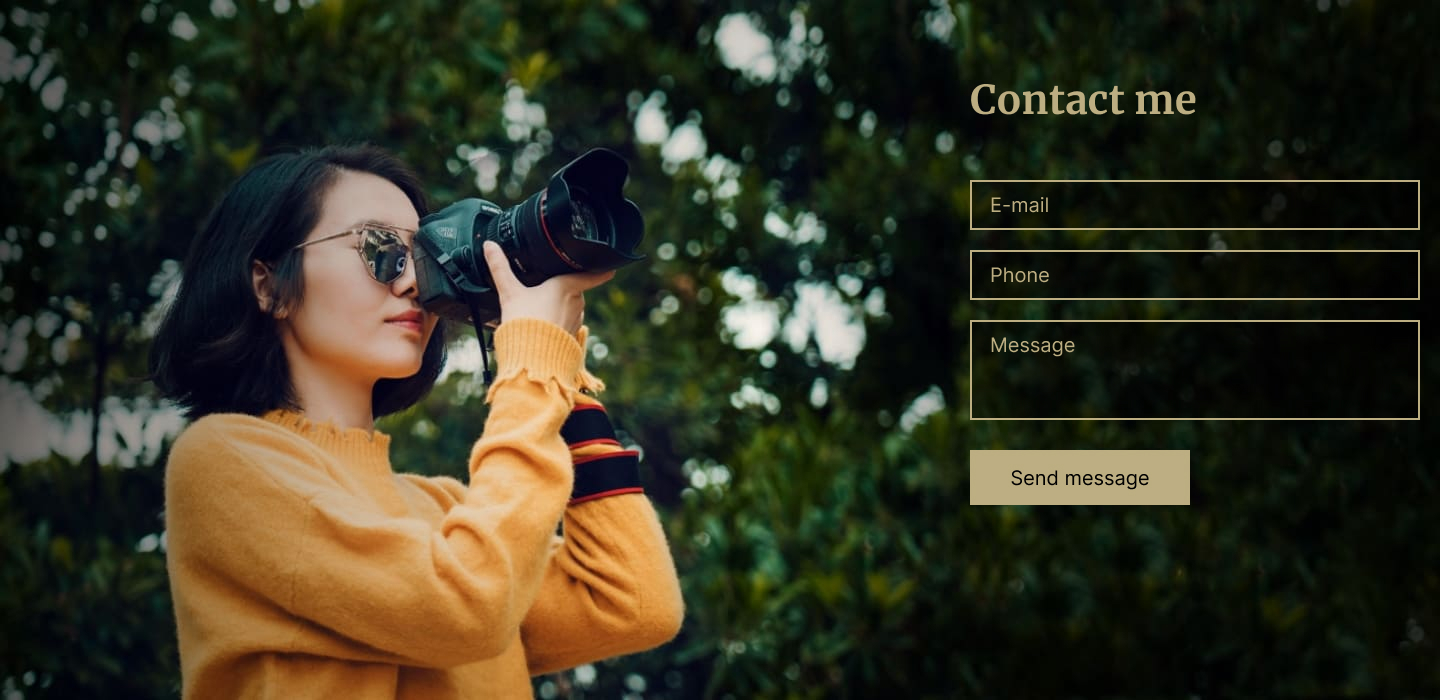
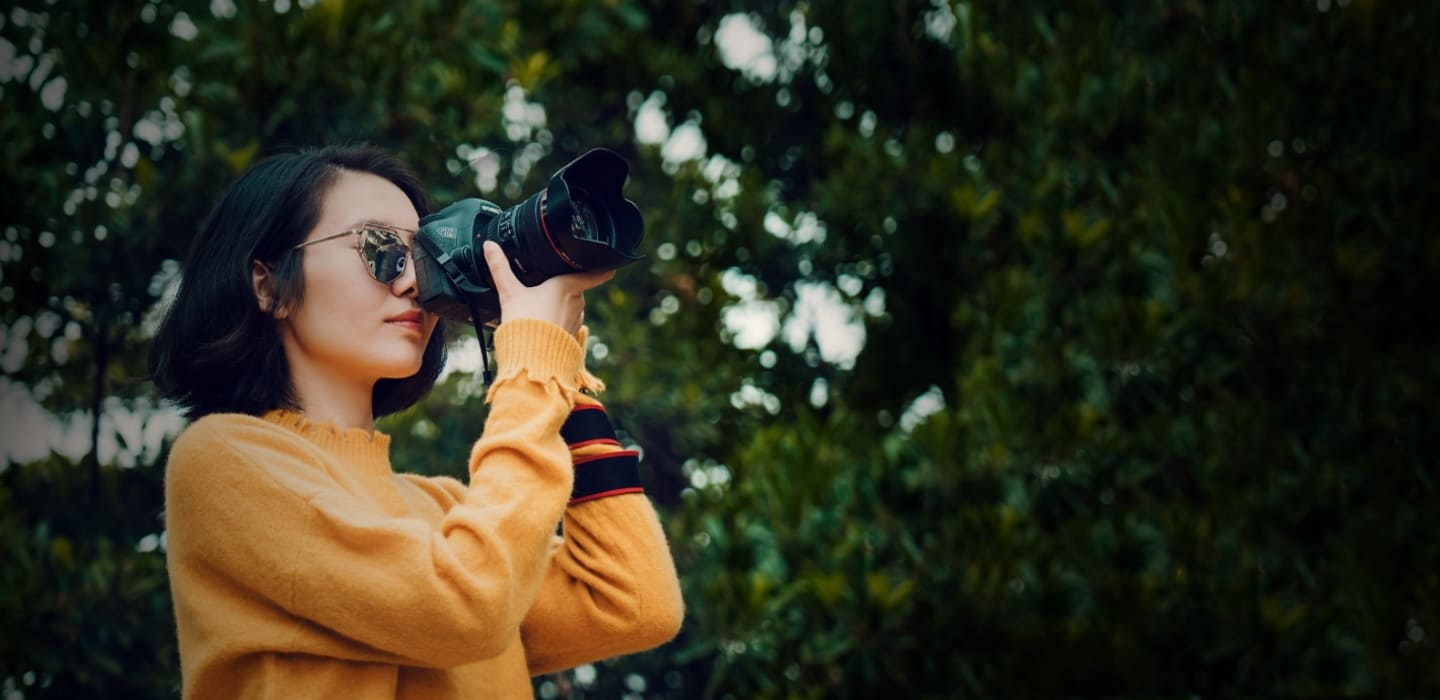
feat: draft contact-me

diff --git a/portfolio/style.css b/portfolio/style.css
@@ -15,6 +15,9 @@
   padding: 0;
   box-sizing: border-box;
 }
+:root {
+  --color-gold: #bdae82;
+}
 body {
   background-color: #000000;
   color: #ffffff;
@@ -68,7 +71,7 @@ ul.nav-list {
   transition: 0.4s;
 }
 .nav-link:hover {
-  color: #bdae82;
+  color: var(--color-gold);
 }
 .language {
   width: 70px;
@@ -92,7 +95,7 @@ ul.nav-list {
   position: absolute;
   left: -2px;
   top: -19px;
-  color: #bdae82;
+  color: var(--color-gold);
 }
 .languages-checkbox:checked::after {
   color: #ffffff;
@@ -105,7 +108,7 @@ ul.nav-list {
   color: #ffffff;
 }
 .languages-checkbox:checked::before {
-  color: #bdae82;
+  color: var(--color-gold);
 }
 .languages-text {
   position: absolute;
@@ -113,14 +116,14 @@ ul.nav-list {
   font-size: 20px;
 }
 
-.hero-container {
+.hero {
   height: 820px;
   background-image: url("./assets/img/header/header-bg.jpg");
   background-position: center -90px;
   background-repeat: no-repeat;
   padding: 0 80px;
 }
-.hero {
+.hero-container {
   display: flex;
   flex-wrap: wrap;
   width: 500px;
@@ -153,7 +156,7 @@ ul.nav-list {
   font-weight: 400;
   line-height: 40px;
   border: 0;
-  background-color: #bdae82;
+  background-color: var(--color-gold);
   color: #000000;
   cursor: pointer;
   transition: 0.8s;
@@ -165,9 +168,9 @@ ul.nav-list {
   font-size: 20px;
   font-weight: 400;
   line-height: 40px;
-  border: 2px solid #bdae82;
+  border: 2px solid var(--color-gold);
   background-color: #000000;
-  color: #bdae82;
+  color: var(--color-gold);
   cursor: pointer;
   transition: 0.8s;
 }
@@ -188,12 +191,12 @@ ul.nav-list {
   display: flex;
   width: 48.612%;
   overflow-x: hidden;
-  padding-top: 100px;
+  /* padding-top: 100px; */
   font-family: Merriweather-Bold;
   font-weight: 700;
   font-size: 40px;
   line-height: 80px;
-  color: #bdae82;
+  color: var(--color-gold);
   align-items: center;
 }
 .section-header-title::before {
@@ -201,7 +204,7 @@ ul.nav-list {
   position: relative;
   width: 100%;
   height: 2px;
-  background-color: #bdae82;
+  background-color: var(--color-gold);
   top: 50%;
   left: -20px;
 }
@@ -210,7 +213,7 @@ ul.nav-list {
   position: relative;
   width: 100%;
   height: 2px;
-  background-color: #bdae82;
+  background-color: var(--color-gold);
   top: 50%;
   right: -20px;
 }
@@ -322,7 +325,7 @@ ul.nav-list {
   justify-content: space-evenly;
   width: 450px;
   height: 505px;
-  border: 2px solid #bdae82;
+  border: 2px solid var(--color-gold);
 }
 .price-name {
   align-items: center;
@@ -337,7 +340,7 @@ ul.nav-list {
   font-family: Merriweather-Bold;
   font-size: 24px;
   line-height: 48px;
-  color: #bdae82;
+  color: var(--color-gold);
 }
 .price-item span {
   align-items: center;
@@ -350,4 +353,53 @@ ul.nav-list {
   display: flex;
   flex-direction: column;
   align-items: center;
+}
+.contacts-container {
+  display: flex;
+  justify-content: flex-end;
+  padding-top: 60px;
+  height: 700px;
+  background: url("./assets/img/contacts/contacts.jpg");
+  background-size: auto 700px;
+  background-position: center center;
+}
+.contacts-feedback {
+  display: flex;
+  flex-direction: column;
+  flex-wrap: wrap;
+  margin-right: 20px;
+  width: 450px;
+}
+.contacts-feedback input::placeholder,
+.contacts-feedback textarea::placeholder {
+  color: var(--color-gold);
+  padding-top: 5px;
+  padding-left: 20px;
+}
+.contacts-feedback textarea,
+.contacts-feedback input {
+  background-color: rgba(0, 0, 0, 0.5);
+  border: 2px solid var(--color-gold);
+  resize: none;
+  font-family: inherit;
+  color: var(--color-gold);
+  font-size: 20px;
+}
+.contacts-feedback textarea {
+  height: 100px;
+}
+.contacts-feedback input {
+  height: 50px;
+  margin-bottom: 20px;
+}
+.contacts-btn {
+  margin-top: 30px;
+}
+.header-title-contact {
+  width: 450px;
+  margin-bottom: 40px;
+}
+.header-title-contact::after,
+.header-title-contact::before {
+  content: none;
 }

diff --git a/portfolio/index.html b/portfolio/index.html
@@ -36,8 +36,8 @@
       </div>
     </header>
     <main class="main container">
-      <section class="hero-container">
-        <div class="hero">
+      <section class="hero">
+        <div class="hero-container">
           <h1 class="hero-title">Alexa Rise</h1>
           <p class="hero-text">Save sincere emotions, romantic feelings and 
             happy moments of life together with professional 
@@ -134,6 +134,17 @@
             <button class="btn">Order shooting</button>
           </li>
         </ul>
+      </section>
+      <section class="contacts">
+        <div class="contacts-container">
+          <div class="contacts-feedback">
+            <h2 class="section-header-title header-title-contact">Contact me</h2>
+            <input type="email" name="" id="email" placeholder="E-mail">
+            <input type="tel" name="" id="tel" placeholder="Phone">
+            <textarea name="textarea" id="textarea" cols="30" rows="6" placeholder="Message"></textarea>
+            <button class="btn contacts-btn">Send message</button> 
+          </div>
+        </div>
       </section>
     </main>
     <footer class="footer container"></footer>
